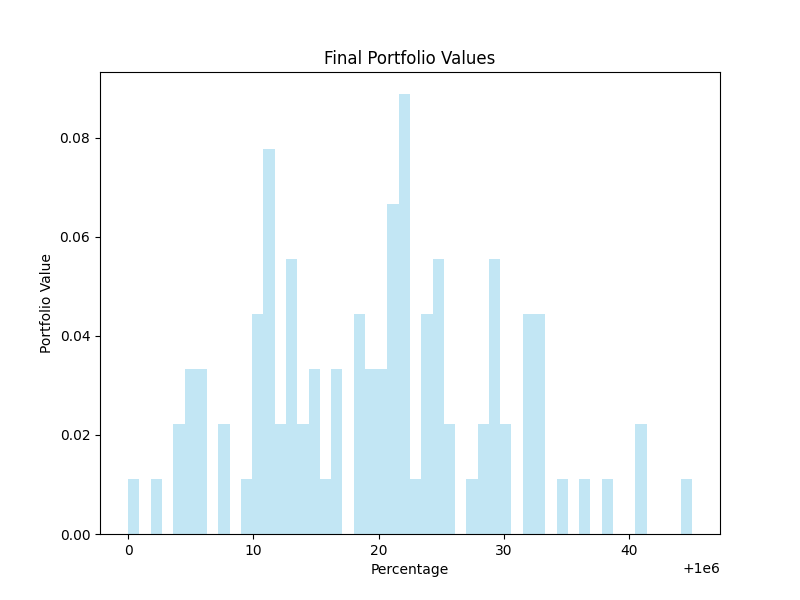
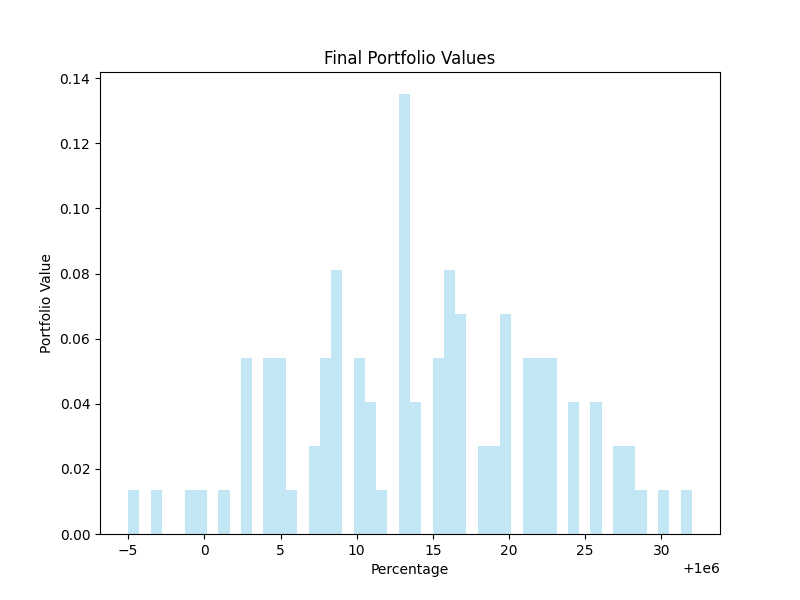
temporary status

diff --git a/Code/broker.py b/Code/broker.py
@@ -72,6 +72,23 @@ class Broker:
                 self.money += stocks[plan].date_to_price[date]
                 self.portfolio[plan] -= 1
 
+            elif self.money > 100:
+                # assess risk of every stock available and sort from lowest to highest risk
+                risk_dict = dict()
+                for stock in available_stocks:
+                    risk_dict[stock] = self.assess_risk(stock, stocks, date) #* (1-self.neighbor_weight) + neighbor_factor1[stock] * self.neighbor_weight
+                sorted_list = sorted(risk_dict.keys(), key=risk_dict.get)
+
+                # select from stocks whose stock assessment put them in the risk min / 100 top percent of stocks
+                sorted_list = list(filter(lambda a: stocks[a].date_to_price[date] < self.money, sorted_list))
+                lower_limit = min(math.floor(len(sorted_list) * self.risk_percentile), len(sorted_list)-1)
+                plan = random.sample(list(sorted_list[lower_limit:]), 1)[0]
+
+                # buy stock and increment quantity in portfolio
+                self.money -= stocks[plan].date_to_price[date]
+                self.portfolio[plan] += 1
+
+
             self.assess_portfolio_risk(stocks, date)
         # print(self.id, self.current_risk)
 

diff --git a/Code/simulation.py b/Code/simulation.py
@@ -65,7 +65,7 @@ stock_df.set_index('Ticker', inplace=True)
 
 # convert to dictionary of ticker to Stock class objects
 stocks = dict()
-random.shuffle(valid_tickers)
+# random.shuffle(valid_tickers)
 for idx, ticker in enumerate(valid_tickers):
     try:
         dates = ast.literal_eval(stock_df.at[ticker, 'dates'])
